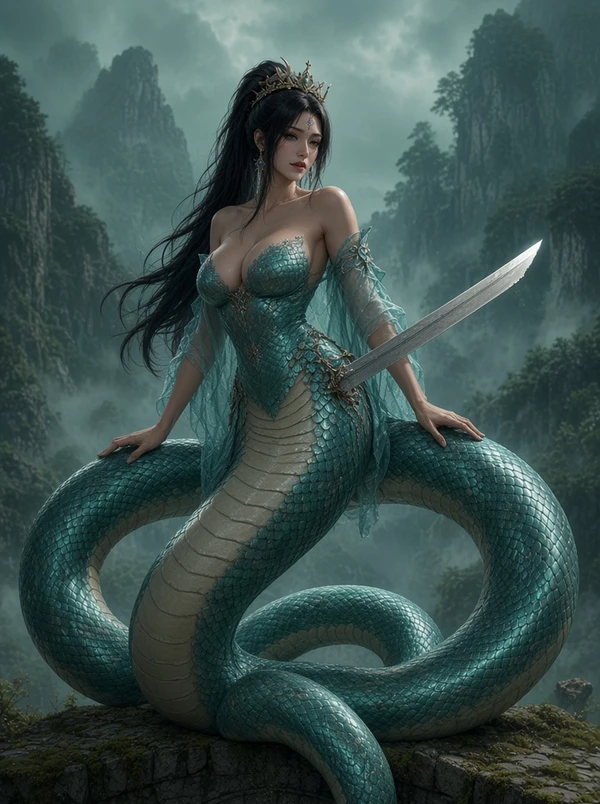
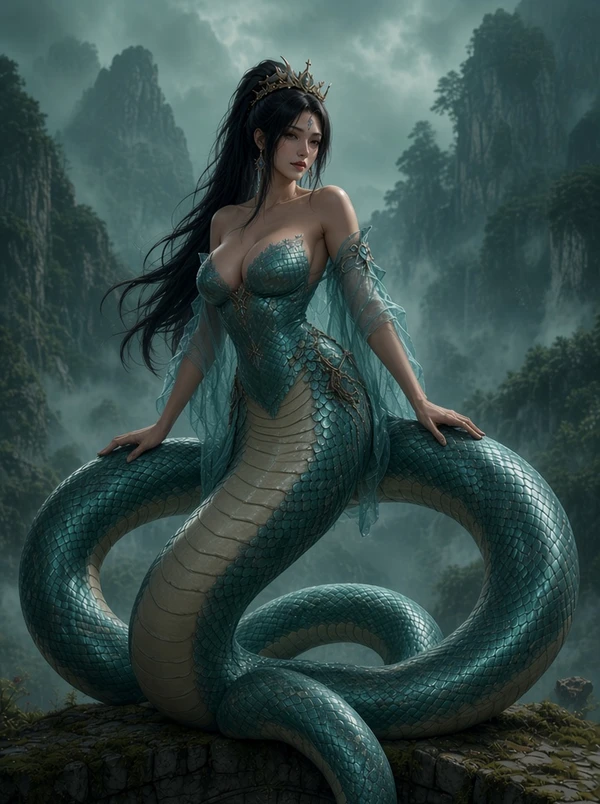
青鳞蛇姬去掉腰间断剑（用户要求）v156

diff --git a/index.html b/index.html
@@ -15,7 +15,7 @@
   <link rel="icon" type="image/png" sizes="192x192" href="assets/icons/app_icon_192.png?v=16" />
   <!-- og:image 不加 ?v=：分享缩略图不纳入 bump-version 全局缓存号，见 tools/bump-version.js。 -->
   <meta property="og:image" content="assets/icons/app_icon_512.webp" />
-  <link rel="stylesheet" href="css/style.css?v=155" />
+  <link rel="stylesheet" href="css/style.css?v=156" />
 </head>
 
 <body>
@@ -319,7 +319,7 @@
 
       <!-- 页签2：功法与洞府升级 -->
       <section id="tab-upgrades" class="tab-pane">
-        <div class="gufeng-card home-card"><div id="home-scene" class="home-scene"><div id="home-stage" class="home-stage"><img id="home-bg" class="home-bg" alt="" src="assets/home/scene_base.webp?v=155"><div id="home-glow" class="home-glow"></div><div id="home-layer"></div><div id="home-reveal" class="home-reveal"></div></div><div id="home-title" class="home-title"></div><button id="btn-home-upgrade" class="home-upgrade-btn" type="button" aria-label="洞府升级"><img class="gi gi-14" src="assets/icons/res_stone@64.webp?v=18" alt="" aria-hidden="true"><span>升级</span><span id="badge-home-upgrade" class="home-upgrade-badge" aria-hidden="true"></span></button><button id="btn-dispatch-open" class="home-dispatch-btn" type="button" aria-label="仙姬派遣" hidden><img class="gi gi-14" src="assets/icons/ui_role@64.webp?v=18" alt="" aria-hidden="true"><span id="dispatch-summary">派遣</span><span id="badge-dispatch" class="home-upgrade-badge" aria-hidden="true"></span></button><button id="btn-home-fortune" class="home-fortune-marker" type="button" hidden aria-label="洞府机缘"><span class="home-fortune-glow" aria-hidden="true"></span><span id="home-fortune-label">机缘</span></button></div></div>
+        <div class="gufeng-card home-card"><div id="home-scene" class="home-scene"><div id="home-stage" class="home-stage"><img id="home-bg" class="home-bg" alt="" src="assets/home/scene_base.webp?v=156"><div id="home-glow" class="home-glow"></div><div id="home-layer"></div><div id="home-reveal" class="home-reveal"></div></div><div id="home-title" class="home-title"></div><button id="btn-home-upgrade" class="home-upgrade-btn" type="button" aria-label="洞府升级"><img class="gi gi-14" src="assets/icons/res_stone@64.webp?v=18" alt="" aria-hidden="true"><span>升级</span><span id="badge-home-upgrade" class="home-upgrade-badge" aria-hidden="true"></span></button><button id="btn-dispatch-open" class="home-dispatch-btn" type="button" aria-label="仙姬派遣" hidden><img class="gi gi-14" src="assets/icons/ui_role@64.webp?v=18" alt="" aria-hidden="true"><span id="dispatch-summary">派遣</span><span id="badge-dispatch" class="home-upgrade-badge" aria-hidden="true"></span></button><button id="btn-home-fortune" class="home-fortune-marker" type="button" hidden aria-label="洞府机缘"><span class="home-fortune-glow" aria-hidden="true"></span><span id="home-fortune-label">机缘</span></button></div></div>
       </section>
 
       <!-- 页签3：轮回转世 -->
@@ -984,42 +984,42 @@
     </div>
   </div>
 
-  <script src="js/no-zoom.js?v=155"></script>
-  <script src="js/config.js?v=155"></script>
-  <script src="js/beasts.js?v=155"></script>
-  <script src="js/ui-text.js?v=155"></script>
-  <script src="js/equip.js?v=155"></script>
-  <script src="js/state.js?v=155"></script>
-  <script src="js/titles.js?v=155"></script>
-  <script src="js/grow.js?v=155"></script>
-  <script src="js/battle.js?v=155"></script>
-  <script src="js/bonds.js?v=155"></script>
-  <script src="js/mijing.js?v=155"></script>
-  <script src="js/tower.js?v=155"></script>
-  <script src="js/gear.js?v=155"></script>
-  <script src="js/stage-ui.js?v=155"></script>
-  <script src="js/story-data.js?v=155"></script>
-  <script src="js/story.js?v=155"></script>
-  <script src="js/audio.js?v=155"></script>
-  <script src="js/newbie.js?v=155"></script>
-  <script src="js/tribulation-data.js?v=155"></script>
-  <script src="js/tribulation.js?v=155"></script>
-  <script src="js/game.js?v=155"></script>
-  <script src="js/events-data.js?v=155"></script>
-  <script src="js/karma-data.js?v=155"></script>
-  <script src="js/karma.js?v=155"></script>
-  <script src="js/idle-events.js?v=155"></script>
-  <script src="js/daily.js?v=155"></script>
-  <script src="js/home-fortune.js?v=155"></script>
-  <script src="js/codex-data.js?v=155"></script>
-  <script src="js/codex.js?v=155"></script>
-  <script src="js/hero-lines-data.js?v=155"></script>
-  <script src="js/hero-voice.js?v=155"></script>
-  <script src="js/skill-text-data.js?v=155"></script>
-  <script src="js/dispatch.js?v=155"></script>
-  <script src="js/path.js?v=155"></script>
-  <script src="js/beasts-ui.js?v=155"></script>
-  <script src="js/more-menu.js?v=155"></script>
+  <script src="js/no-zoom.js?v=156"></script>
+  <script src="js/config.js?v=156"></script>
+  <script src="js/beasts.js?v=156"></script>
+  <script src="js/ui-text.js?v=156"></script>
+  <script src="js/equip.js?v=156"></script>
+  <script src="js/state.js?v=156"></script>
+  <script src="js/titles.js?v=156"></script>
+  <script src="js/grow.js?v=156"></script>
+  <script src="js/battle.js?v=156"></script>
+  <script src="js/bonds.js?v=156"></script>
+  <script src="js/mijing.js?v=156"></script>
+  <script src="js/tower.js?v=156"></script>
+  <script src="js/gear.js?v=156"></script>
+  <script src="js/stage-ui.js?v=156"></script>
+  <script src="js/story-data.js?v=156"></script>
+  <script src="js/story.js?v=156"></script>
+  <script src="js/audio.js?v=156"></script>
+  <script src="js/newbie.js?v=156"></script>
+  <script src="js/tribulation-data.js?v=156"></script>
+  <script src="js/tribulation.js?v=156"></script>
+  <script src="js/game.js?v=156"></script>
+  <script src="js/events-data.js?v=156"></script>
+  <script src="js/karma-data.js?v=156"></script>
+  <script src="js/karma.js?v=156"></script>
+  <script src="js/idle-events.js?v=156"></script>
+  <script src="js/daily.js?v=156"></script>
+  <script src="js/home-fortune.js?v=156"></script>
+  <script src="js/codex-data.js?v=156"></script>
+  <script src="js/codex.js?v=156"></script>
+  <script src="js/hero-lines-data.js?v=156"></script>
+  <script src="js/hero-voice.js?v=156"></script>
+  <script src="js/skill-text-data.js?v=156"></script>
+  <script src="js/dispatch.js?v=156"></script>
+  <script src="js/path.js?v=156"></script>
+  <script src="js/beasts-ui.js?v=156"></script>
+  <script src="js/more-menu.js?v=156"></script>
 
 </body>
 

diff --git a/css/style.css b/css/style.css
@@ -3845,7 +3845,7 @@ body:has(.modal-backdrop.active) .tab-pane.active {
   content: "";
   position: absolute;
   inset: -24px;
-  background: url("../assets/home/scene_base.webp?v=155") center / cover no-repeat;
+  background: url("../assets/home/scene_base.webp?v=156") center / cover no-repeat;
   filter: blur(16px) brightness(0.7);
   -webkit-filter: blur(16px) brightness(0.7);
   pointer-events: none;
@@ -3853,11 +3853,11 @@ body:has(.modal-backdrop.active) .tab-pane.active {
 }
 
 .home-scene.bg-tier-xuan::before {
-  background-image: url("../assets/home/scene_xuan.webp?v=155");
+  background-image: url("../assets/home/scene_xuan.webp?v=156");
 }
 
 .home-scene.bg-tier-xian::before {
-  background-image: url("../assets/home/scene_xian.webp?v=155");
+  background-image: url("../assets/home/scene_xian.webp?v=156");
 }
 
 .home-stage {

diff --git a/js/config.js b/js/config.js
@@ -490,7 +490,7 @@
       { id: 'heifeng', name: '黑风寨主', img: 'assets/enemies/boss_heifeng.webp?v=19' },
       { id: 'shikui', name: '尸傀道姑', img: 'assets/enemies/boss_shikui.webp?v=154' },
       { id: 'xuefu', name: '血蝠夫人', img: 'assets/enemies/boss_xuefu.webp?v=21' },
-      { id: 'qinglin', name: '青鳞蛇姬', img: 'assets/enemies/boss_qinglin.webp?v=155' },
+      { id: 'qinglin', name: '青鳞蛇姬', img: 'assets/enemies/boss_qinglin.webp?v=156' },
       { id: 'kumu', name: '枯木树娘', img: 'assets/enemies/boss_kumu.webp?v=154' },
       { id: 'leiying', name: '雷翼鹰后', img: 'assets/enemies/boss_leiying.webp?v=153' },
       { id: 'qingming', name: '青冥蛟后', img: 'assets/enemies/boss_qingming.webp?v=154' },

diff --git a/js/game.js b/js/game.js
@@ -18,9 +18,9 @@
   const GameState = window.GameState;
 
   const HOME_BG_SRC = [
-    'assets/home/scene_base.webp?v=155',
-    'assets/home/scene_xuan.webp?v=155',
-    'assets/home/scene_xian.webp?v=155'
+    'assets/home/scene_base.webp?v=156',
+    'assets/home/scene_xuan.webp?v=156',
+    'assets/home/scene_xian.webp?v=156'
   ];
   const prefetchedHomeBg = Object.create(null);
 
